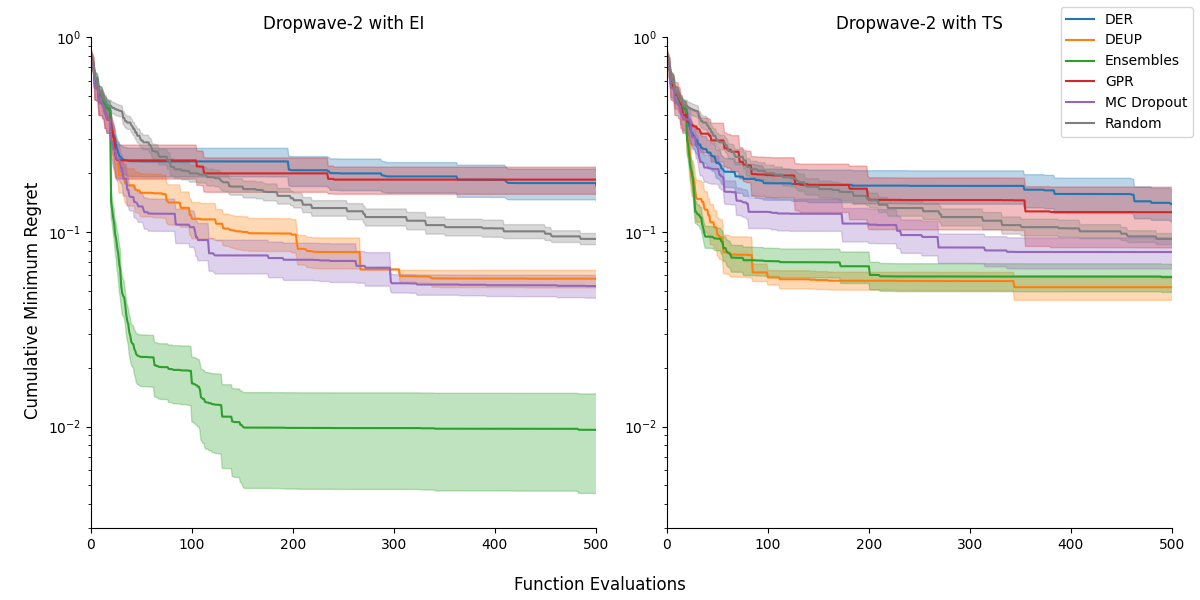
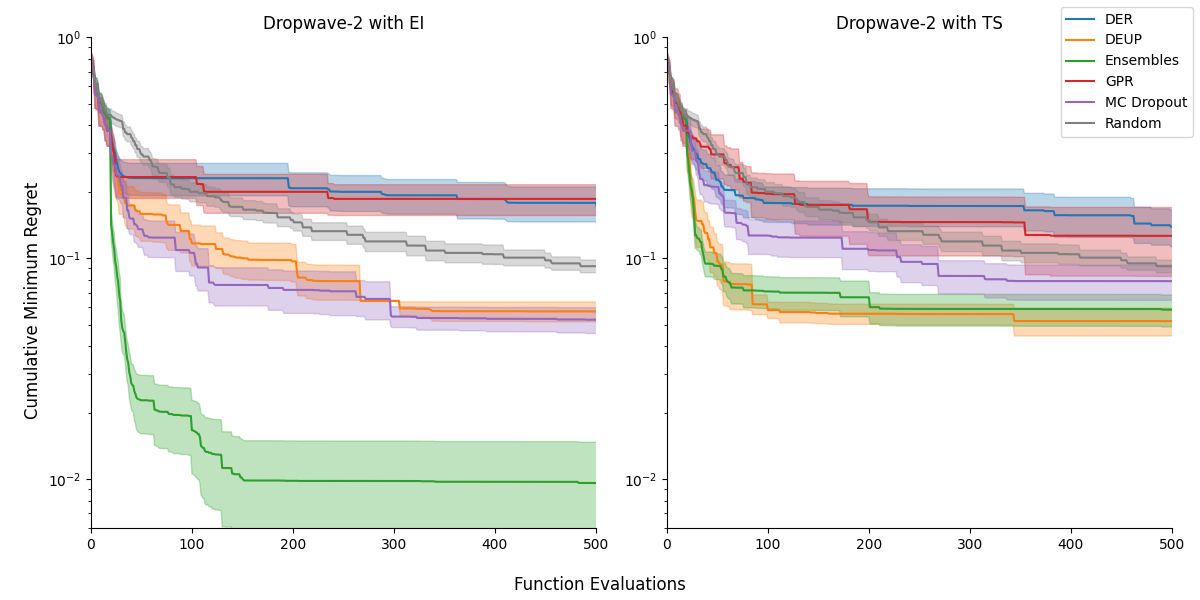
Cleaned up gpr csv

diff --git a/benchmarking/results_processing/plot_regret.py b/benchmarking/results_processing/plot_regret.py
@@ -168,7 +168,7 @@ fig_4 = {
         "max_steps": 2000
     },
     "xlim": (0, 500),
-    "ylims": [(3e-2, 1), (9e-2, 1), (3e-4,1)]
+    "ylims": [(3e-2, 1), (2e-1, 1), (3e-4,1)]
 }
 # shekel: 9e-2, ackley: 2e-2, hartmann: 6e-4
 
